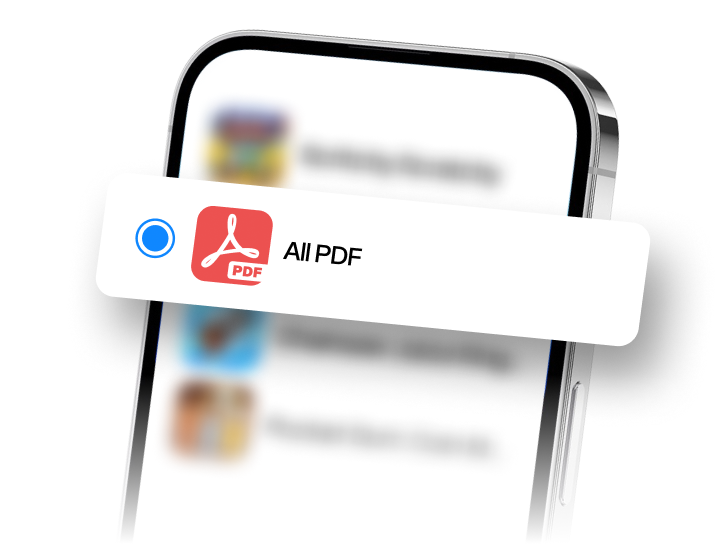
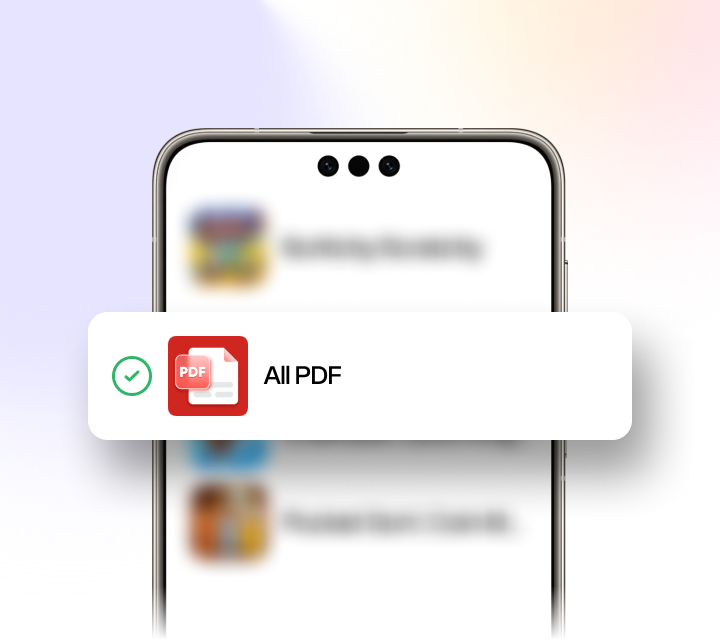
1

diff --git a/lib/features/settings/overlay_permission/overlay_permission_screen.dart b/lib/features/settings/overlay_permission/overlay_permission_screen.dart
@@ -23,125 +23,103 @@ class OverlayPermissionScreen extends BaseScreen<OverlayPermissionController> {
     BuildContext context,
     OverlayPermissionController controller,
   ) {
-    return Stack(
-      alignment: Alignment.topCenter,
+    return Column(
       children: [
         AssetPictureView(
-          'permissions/overlay_header_background',
+          'permissions/overlay_illustration',
           width: double.infinity,
-          height: 180.h,
+          height: 320.h,
         ),
+        SizedBox(height: 24.h),
+        LocalizedTextView(
+          'Unlock Full PDF Potential'.tr,
+          fontSize: 24.sp,
+          color: Colors.black,
+          fontWeight: FontWeight.bold,
+        ),
+        SizedBox(height: 24.h),
         Column(
+          mainAxisSize: MainAxisSize.min,
+          crossAxisAlignment: CrossAxisAlignment.start,
           children: [
-            SafeArea(
-              top: true,
-              bottom: false,
-              child: AssetPictureView(
-                'permissions/overlay_illustration',
-                width: double.infinity,
-                height: 272.h,
-              ),
-            ),
-            SizedBox(height: 24.h),
             LocalizedTextView(
-              'Unlock Full PDF Potential'.tr,
-              fontSize: 24.sp,
-              color: Colors.black,
-              fontWeight: FontWeight.bold,
+              'Step 1: find PDF flow in the list below.'.tr,
+              fontSize: 14.sp,
+              color: const Color(0xff8E9091),
+              fontWeight: FontWeight.w500,
             ),
-            SizedBox(height: 24.h),
-            Column(
-              mainAxisSize: MainAxisSize.min,
-              crossAxisAlignment: CrossAxisAlignment.start,
-              children: [
-                LocalizedTextView(
-                  'Step 1: find PDF flow in the list below.'.tr,
-                  fontSize: 14.sp,
-                  color: const Color(0xff4b5156),
-                  fontWeight: FontWeight.w500,
-                ),
-                LocalizedTextView(
-                  'Step 2: toggle the switch to ON.'.tr,
-                  fontSize: 14.sp,
-                  color: const Color(0xff4b5156),
-                  fontWeight: FontWeight.w500,
-                ),
-              ],
+            LocalizedTextView(
+              'Step 2: toggle the switch to ON.'.tr,
+              fontSize: 14.sp,
+              color: const Color(0xff8E9091),
+              fontWeight: FontWeight.w500,
             ),
-            SizedBox(height: 56.h),
-            Container(
+          ],
+        ),
+        SizedBox(height: 56.h),
+        Container(
+          width: double.infinity,
+          padding: EdgeInsets.all(12.w),
+          margin: EdgeInsets.symmetric(horizontal: 40.w),
+          decoration: BoxDecoration(
+            color: Color(0xffF5F7F9),
+            borderRadius: BorderRadius.circular(12.w),
+          ),
+          child: Row(
+            children: [
+              AssetPictureView(
+                'branding/app_logo',
+                width: 40.w,
+                height: 40.w,
+              ),
+              SizedBox(width: 8.w),
+              Expanded(
+                child: LocalizedTextView(
+                  AppConfig.applicationName.tr,
+                  fontSize: 16.sp,
+                  color: Colors.black,
+                  fontWeight: FontWeight.bold,
+                  overflow: TextOverflow.ellipsis,
+                ),
+              ),
+              const SwitchView(),
+            ],
+          ),
+        ),
+        const Spacer(),
+        PulseView(
+          child: TapGuardView(
+            onPressed: controller.onContinuePressed,
+            child: Container(
               width: double.infinity,
-              padding: EdgeInsets.all(12.w),
-              margin: EdgeInsets.symmetric(horizontal: 40.w),
+              height: 48.h,
+              alignment: Alignment.center,
+              margin: EdgeInsets.symmetric(horizontal: 16.w),
               decoration: BoxDecoration(
-                borderRadius: BorderRadius.circular(12.w),
-                border: Border.all(
-                  width: 0.5.w,
-                  color: const Color(0xff000000).withValues(alpha: 0.1),
-                ),
-                color: Colors.white,
+                color: Color(0xff8C69F3),
+                borderRadius: BorderRadius.circular(16.w),
               ),
-              child: Row(
-                children: [
-                  AssetPictureView(
-                    'branding/app_logo',
-                    width: 48.w,
-                    height: 48.w,
-                  ),
-                  SizedBox(width: 8.w),
-                  Expanded(
-                    child: LocalizedTextView(
-                      AppConfig.applicationName.tr,
-                      fontSize: 16.sp,
-                      color: Colors.black,
-                      fontWeight: FontWeight.bold,
-                      overflow: TextOverflow.ellipsis,
-                    ),
-                  ),
-                  const SwitchView(),
-                ],
-              ),
-            ),
-            const Spacer(),
-            PulseView(
-              child: TapGuardView(
-                onPressed: controller.onContinuePressed,
-                child: Container(
-                  width: double.infinity,
-                  height: 48.h,
-                  alignment: Alignment.center,
-                  margin: EdgeInsets.symmetric(horizontal: 16.w),
-                  decoration: BoxDecoration(
-                    borderRadius: BorderRadius.circular(24.w),
-                    gradient: LinearGradient(
-                      begin: Alignment.topCenter,
-                      end: Alignment.bottomCenter,
-                      colors: [Color(0xff06B3F2), Color(0xff002DF6)],
-                    ),
-                  ),
-                  child: LocalizedTextView(
-                    'Continue'.tr,
-                    fontSize: 18.sp,
-                    color: Colors.white,
-                    fontWeight: FontWeight.bold,
-                  ),
-                ),
-              ),
-            ),
-            SizedBox(height: 20.h),
-            TapGuardView(
-              onPressed: controller.onLaterPressed,
               child: LocalizedTextView(
-                'Later'.tr,
-                fontSize: 16.sp,
-                color: const Color(0xff4b5156),
-                decoration: TextDecoration.underline,
+                'Continue'.tr,
+                fontSize: 18.sp,
+                color: Colors.white,
                 fontWeight: FontWeight.bold,
               ),
             ),
-            SizedBox(height: 36.h),
-          ],
+          ),
         ),
+        SizedBox(height: 20.h),
+        TapGuardView(
+          onPressed: controller.onLaterPressed,
+          child: LocalizedTextView(
+            'Later'.tr,
+            fontSize: 16.sp,
+            color: const Color(0xff4b5156),
+            decoration: TextDecoration.underline,
+            fontWeight: FontWeight.bold,
+          ),
+        ),
+        SizedBox(height: 36.h),
       ],
     );
   }

diff --git a/lib/features/onboarding/services/onboarding_coordinator.dart b/lib/features/onboarding/services/onboarding_coordinator.dart
@@ -4,6 +4,7 @@ import 'package:b21pdf/core/navigation/app_navigator.dart';
 import 'package:b21pdf/core/storage/preferences/locale_selected.dart';
 import 'package:b21pdf/features/settings/language/presentation/language_selection_controller.dart';
 import 'package:b21pdf/features/notifications/presentation/permission/notification_permission_controller.dart';
+import 'package:flutter_boom_notification_plugins/flutter_boom_notification_plugins.dart';
 import 'package:get/get.dart';
 import 'package:permission_handler/permission_handler.dart';
 
@@ -13,27 +14,22 @@ class OnboardingCoordinator {
 
   //语言选择页没有点确定----启动app：悬浮窗->语言选择页->通知->首页
   //语言选择页点确定----启动app：悬浮窗->通知->首页
-  //这个包测试一下没有悬浮窗的
-  // toPageAfterLauncher()async{
-  //   var checkOverlayPermission = await FlutterLocalNotificationPlugins.instance.checkOverlayPermission();
-  //   if(!checkOverlayPermission){
-  //     AppNavigator.replaceNamed<void>(
-  //       routeName:
-  //       AppRoutes.overlayPermissionRoute,
-  //     );
-  //     return;
-  //   }
-  //   toPageAfterOverlay();
-  // }
+  openOverlaySelection()async{
+    var checkOverlayPermission = await FlutterBoomNotificationPlugins.instance.checkOverlayPermission();
+    if(!checkOverlayPermission){
+      AppNavigator.replaceNamed<void>(
+        routeName:
+        AppRoutes.overlayPermissionRoute,
+      );
+      return;
+    }
+    openLanguageSelection();
+  }
 
   //语言选择页没有点确定----启动app：语言选择页->通知->首页
   //语言选择页点确定----启动app：通知->首页
   openLanguageSelection() {
     if (LocaleSelected.readLanguage().isEmpty) {
-      // AppNavigator.replaceNamed<void>(
-      //   routeName:
-      //   AppRoutes.chooseLanguageRoute,
-      // );
       if (Get.isRegistered<LanguageSelectionController>()) {
         AppNavigator.popUntilRoute(AppRoutes.chooseLanguageRoute);
       } else {
@@ -49,10 +45,6 @@ class OnboardingCoordinator {
   toPageOpenNotificationPermission() async {
     var result = await NotificationService.instance.hasNotificationPermission();
     if (!result) {
-      // AppNavigator.replaceNamed<void>(
-      //   routeName:
-      //   AppRoutes.notificationRoute,
-      // );
       if (Get.isRegistered<NotificationPermissionController>()) {
         AppNavigator.popUntilRoute(AppRoutes.notificationRoute);
       } else {

diff --git a/lib/features/settings/overlay_permission/overlay_permission_controller.dart b/lib/features/settings/overlay_permission/overlay_permission_controller.dart
@@ -15,8 +15,7 @@ class OverlayPermissionController extends BaseController {
     }
     permissionRequestRunning = true;
     try {
-      final bool hasPermission = await FlutterBoomNotificationPlugins.instance
-          .checkOverlayPermission();
+      final bool hasPermission = await FlutterBoomNotificationPlugins.instance.checkOverlayPermission();
       if (hasPermission) {
         openNotificationPermissionScreen();
         return;

diff --git a/lib/features/settings/uninstall/uninstall_feedback_controller.dart b/lib/features/settings/uninstall/uninstall_feedback_controller.dart
@@ -37,7 +37,7 @@ class UninstallFeedbackController extends BaseController {
       AppNavigator.showExitAdIfNeeded();
       return;
     }
-    OnboardingCoordinator.instance.openLanguageSelection();
+    OnboardingCoordinator.instance.openOverlaySelection();
     AppNavigator.showExitAdIfNeeded();
   }
 

diff --git a/lib/features/settings/update/presentation/update_controller.dart b/lib/features/settings/update/presentation/update_controller.dart
@@ -32,6 +32,6 @@ class UpdateController extends BaseController {
       AppNavigator.popUntilRoute(AppRoutes.homeRoute);
       return;
     }
-    OnboardingCoordinator.instance.openLanguageSelection();
+    OnboardingCoordinator.instance.openOverlaySelection();
   }
 }

diff --git a/lib/features/startup/presentation/startup_controller.dart b/lib/features/startup/presentation/startup_controller.dart
@@ -206,7 +206,7 @@ class StartupController extends BaseController
     if (result) {
       return;
     }
-    OnboardingCoordinator.instance.openLanguageSelection();
+    OnboardingCoordinator.instance.openOverlaySelection();
   }
 
   @override
